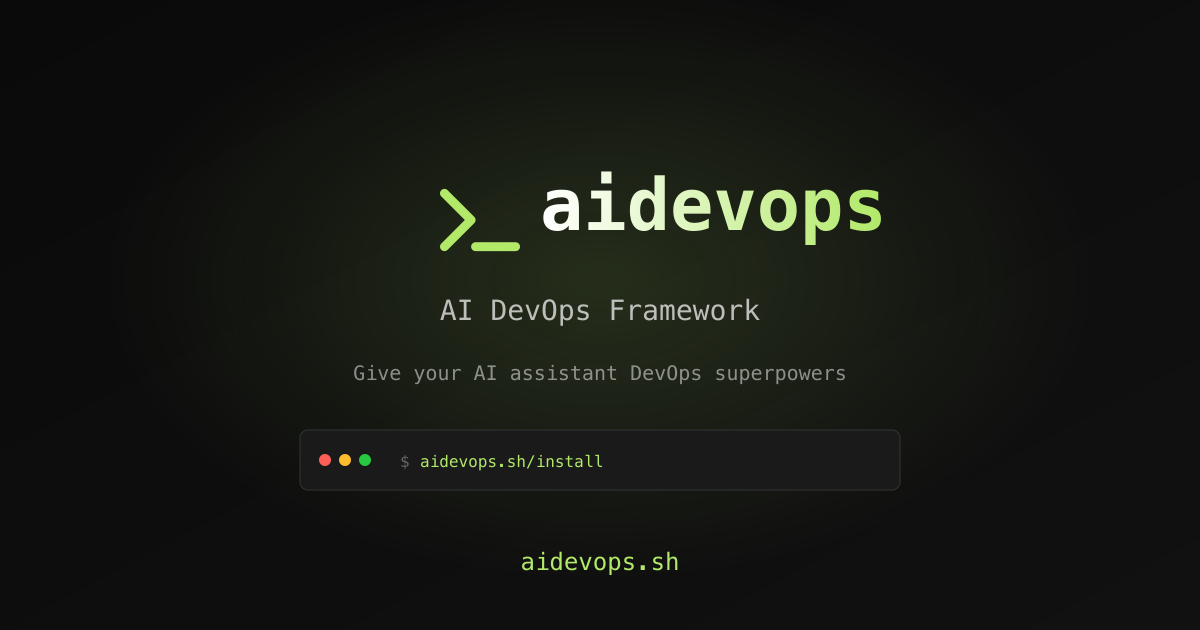
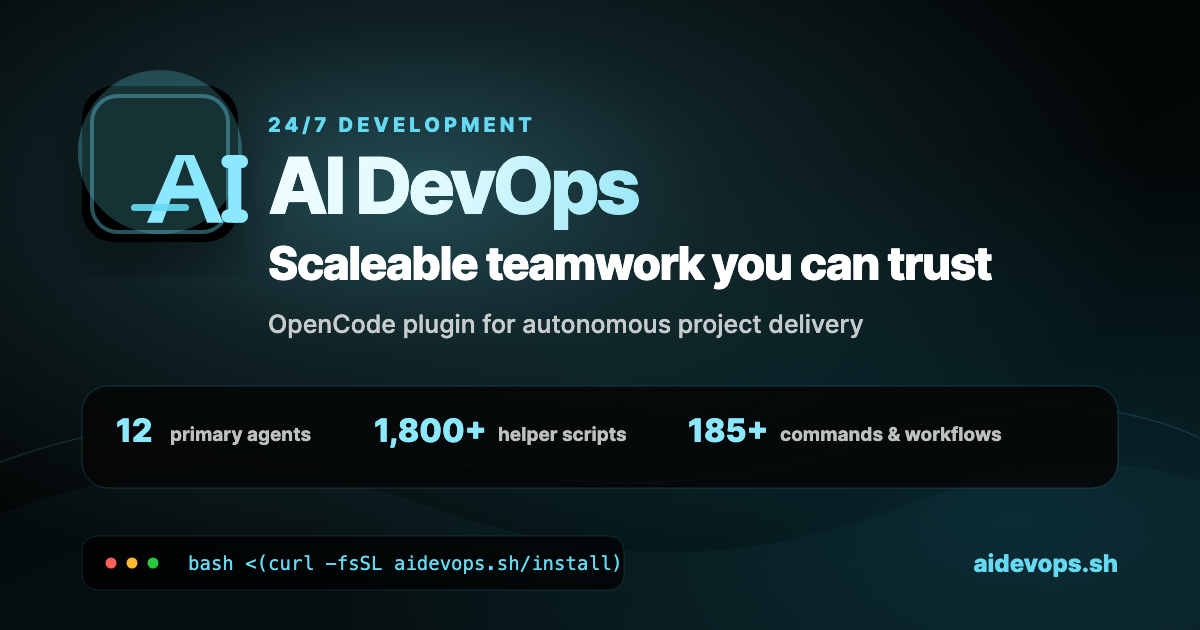
feat: refresh social graph image
Refresh Open Graph/Twitter social image assets and metadata to match the current site branding and homepage content.
<!-- aidevops:sig -->
---
[aidevops.sh](https://aidevops.sh) v3.31.33 with gpt-5.5 spent 4h 43m and 1,695,268 tokens on this with the user in an interactive session.

diff --git a/index.html b/index.html
@@ -18,17 +18,22 @@
     <meta property="og:url" content="https://aidevops.sh/">
     <meta property="og:title" content="AI DevOps Assistant &amp; OpenCode Plugin">
     <meta property="og:description" content="AIDevOps is an open-source AI DevOps assistant framework and OpenCode plugin for autonomous project delivery across code, infrastructure, SEO, and services.">
-    <meta property="og:image" content="https://aidevops.sh/og-image.png">
+    <meta property="og:image" content="https://aidevops.sh/og-image.png?v=2">
+    <meta property="og:image:secure_url" content="https://aidevops.sh/og-image.png?v=2">
+    <meta property="og:image:width" content="1200">
+    <meta property="og:image:height" content="630">
+    <meta property="og:image:alt" content="AI DevOps assistant and OpenCode plugin for scaleable autonomous delivery">
     <meta property="og:site_name" content="AI DevOps">
     <meta property="og:locale" content="en_US">
-    <meta property="og:logo" content="https://aidevops.sh/og-image.png">
+    <meta property="og:logo" content="https://aidevops.sh/og-image.png?v=2">
     
     <!-- Twitter -->
     <meta name="twitter:card" content="summary_large_image">
     <meta name="twitter:url" content="https://aidevops.sh/">
     <meta name="twitter:title" content="AI DevOps Assistant &amp; OpenCode Plugin">
     <meta name="twitter:description" content="AIDevOps is an open-source AI DevOps assistant framework and OpenCode plugin for autonomous project delivery across code, infrastructure, SEO, and services.">
-    <meta name="twitter:image" content="https://aidevops.sh/og-image.png">
+    <meta name="twitter:image" content="https://aidevops.sh/og-image.png?v=2">
+    <meta name="twitter:image:alt" content="AI DevOps assistant and OpenCode plugin for scaleable autonomous delivery">
     <meta name="twitter:creator" content="@marcuswquinn">
     
     <!-- Additional SEO -->
@@ -74,7 +79,7 @@
                 "url": "https://aidevops.sh/",
                 "logo": {
                     "@type": "ImageObject",
-                    "url": "https://aidevops.sh/og-image.png"
+                    "url": "https://aidevops.sh/og-image.png?v=2"
                 },
                 "sameAs": [
                     "https://github.com/marcusquinn/aidevops",
@@ -134,7 +139,7 @@
                 },
                 "primaryImageOfPage": {
                     "@type": "ImageObject",
-                    "url": "https://aidevops.sh/og-image.png"
+                    "url": "https://aidevops.sh/og-image.png?v=2"
                 }
             }
         ]
